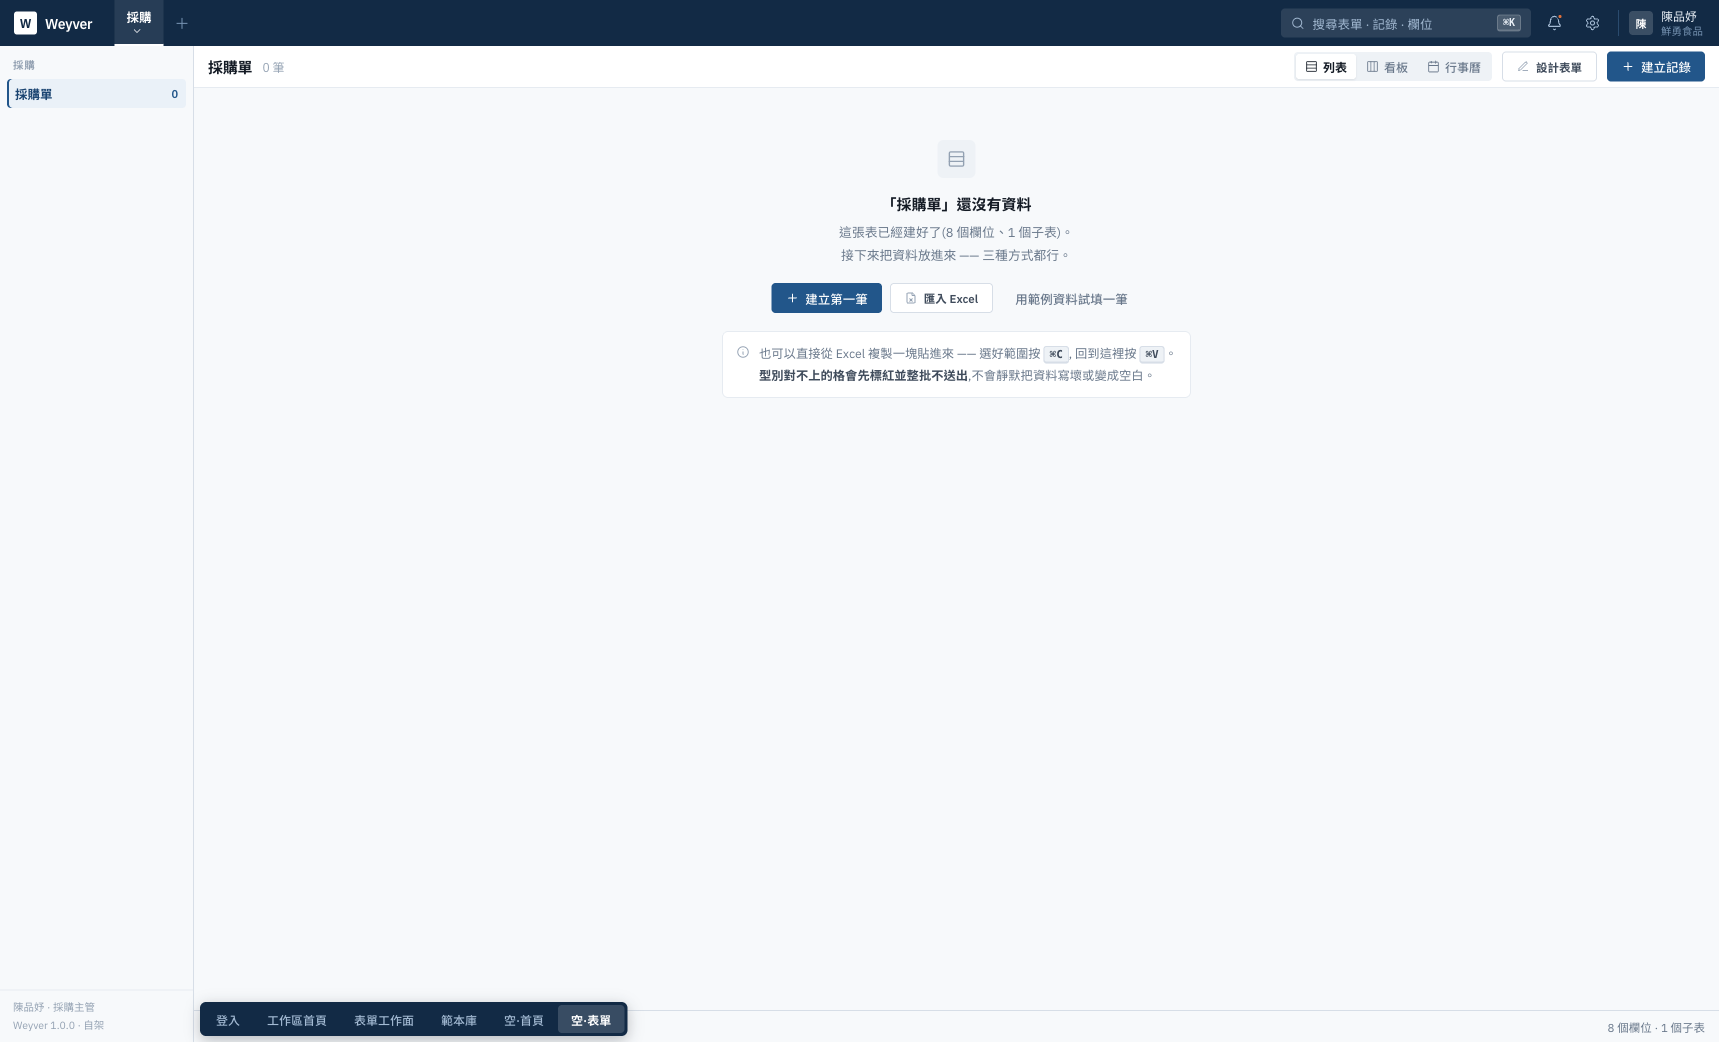
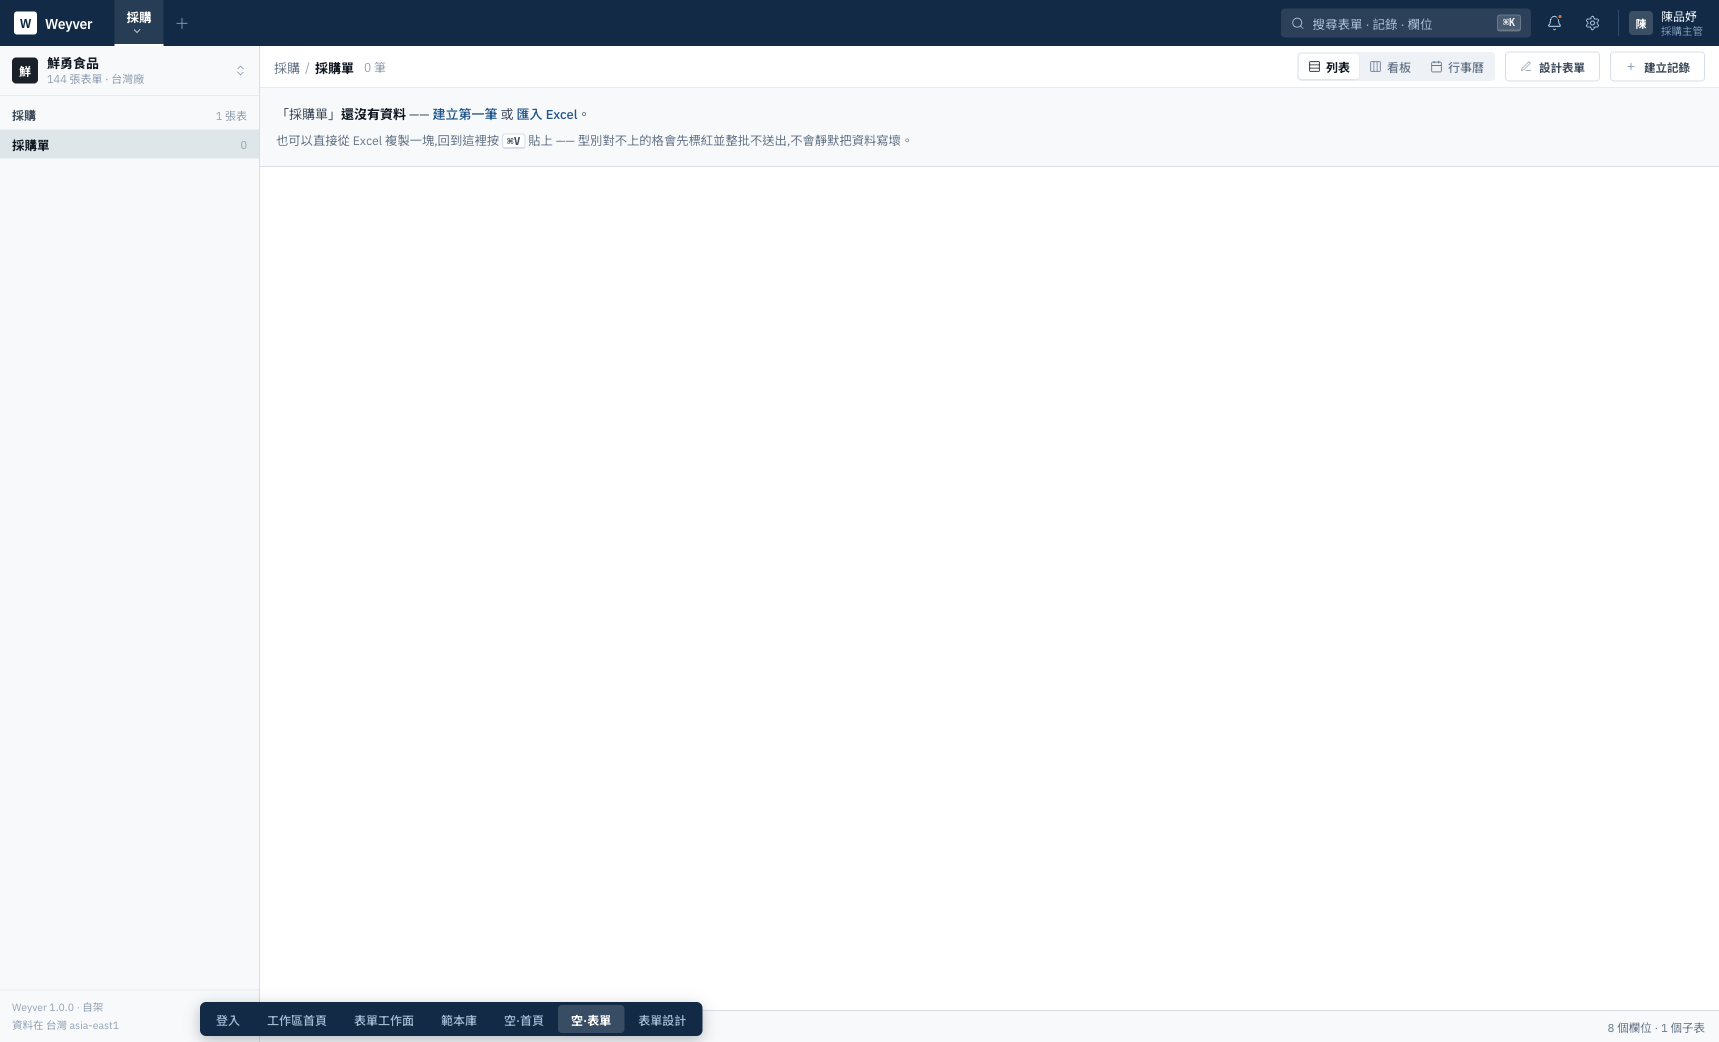
docs(design): 步驟 5|寬度上限 + 空狀態改整寬淺色帶(G11 + G9)
**G11** §2.3「表單／記錄檢視上限 1120px,文件正文上限 740px」,
理由是「Ragic 完全不設上限,370px 的表單漂在 900px 灰色裡看起來像壞掉」。
⚠ 但同一節也說「表格全出血」—— **上限只給頁面型內容,不給資料網格**。
→ .home .wrap 1180 → 1120;.blank .wrap 840 → 740(散文 + 清單,不是表單)。

**G9** §3.8 逐字:「Ragic 的作法最好:整寬淺色帶,內含接下來的兩個動作當行內連結…
沒有插圖,可操作。不要畫沒有 CTA 的裝飾性空狀態(Metabase 的問題)。」

🔴 我原本那版(置中卡片 + 圖示磚 + 三顆按鈕 + 提示框)踩了兩件:
① 圖示磚是**沒有出處的裝飾**
② 三顆按鈕把「接下來做什麼」攤成一個選單,
   而**空狀態的價值正在於替使用者決定下一步**

⌘V 貼上那條留著但降成帶內第二行 —— 它是向上點(OQ-GP-5「貼上前標紅」查無任何一家),
不是裝飾;而且使用者剛建完表,下一個動作十之八九就是把 Excel 那份搬進來。

✅ **撞名檢查當場擋下第五次**:.emptyband .sub 又撞到子表的 .sub{width:100%}。
**這次是工具在我看畫面之前抓到的**,不是事後發現版面壞掉 ——
_check-collisions.py 在這一步付清了它的成本。

diff --git a/docs/mockups/weyver-v2.html b/docs/mockups/weyver-v2.html
@@ -438,7 +438,11 @@ a:hover{text-decoration:underline;}
       4040px 是可掃描性問題不是 IA 問題,所以修的是密度與摺疊,不是拆掉目錄。
    ══════════════════════════════════════════════════════════════════ */
 .home{flex:1;overflow-y:auto;background:var(--paper);}
-.home .wrap{max-width:1180px;margin:0 auto;padding:18px 24px 48px;}
+/* 🔴 G11(docs/39 步驟 5)|`DESIGN-RULES.md` §2.3:
+   「表單／記錄檢視上限 **1120px**,文件正文上限 **740px**」,
+   理由是「Ragic 完全不設上限,370px 的表單漂在 900px 灰色裡看起來像壞掉」。
+   ⚠ 但同一節也說「**表格全出血**」—— 所以上限只給**頁面型**內容,不給資料網格。 */
+.home .wrap{max-width:1120px;margin:0 auto;padding:18px 24px 48px;}
 
 /* 一列標題 + 主要動作 —— 不做「大淺標題 → 留白」的兩層帶(C 版失敗處),
    也不放行銷標語:那是 sales deck 的東西,不是產品 chrome。 */
@@ -875,7 +879,8 @@ a:hover{text-decoration:underline;}
       唯一有依據的是「三條路 + 範本最前」,那是站①。
    ══════════════════════════════════════════════════════════════════ */
 .blank{flex:1;overflow-y:auto;background:var(--paper);}
-.blank .wrap{max-width:840px;margin:0 auto;padding:56px 24px 60px;}
+/* 首屏是**散文 + 三條路的清單**,不是表單 → 吃 740 那條(文件正文上限) */
+.blank .wrap{max-width:740px;margin:0 auto;padding:56px 24px 60px;}
 .blank h1{font-size:20px;font-weight:600;letter-spacing:-.3px;}
 .blank .lead{margin-top:8px;font-size:13.5px;line-height:1.8;color:var(--ink-3);}
 .blank .lead b{color:var(--ink-2);font-weight:600;}
@@ -922,30 +927,28 @@ a:hover{text-decoration:underline;}
   display:flex;align-items:center;justify-content:center;margin-top:1px;}
 .next li em{font-style:normal;color:var(--ink-3);}
 
-/* ── 畫面六:表單建好了,但一筆資料都沒有 ────────────────────
-   這是第二個空狀態,而且比第一個更常見(每建一張新表就出現一次)。
-   🔴 現況問題⑥「表格右側一大片無主空白欄」在這裡會最明顯 ——
-      沒有資料時,一排空格線看起來就像壞掉。 */
-.norows{flex:1;display:flex;align-items:flex-start;justify-content:center;
-  background:var(--paper-2);padding:52px 24px;}
-.norows .card{max-width:520px;text-align:center;}
-.norows .ic{width:38px;height:38px;border-radius:var(--r-box);background:var(--paper-3);
-  color:var(--ink-4);display:flex;align-items:center;justify-content:center;margin:0 auto 14px;}
-.norows .ic svg{width:19px;height:19px;}
-.norows h3{font-size:15px;font-weight:600;}
-.norows p{margin-top:7px;font-size:12.8px;line-height:1.8;color:var(--ink-3);}
-.norows .acts{margin-top:16px;display:flex;gap:8px;justify-content:center;flex-wrap:wrap;}
-/* 🔴 貼上的提示放在這裡,不是放在說明文件裡 —— 使用者剛建完表,
-   下一個動作十之八九是「把 Excel 裡那份搬進來」。
-   而 OQ-GP-5「貼上前標紅」是我方相對競品的向上點,值得在此明講。 */
-.norows .tip{margin-top:18px;border:1px solid var(--line-2);border-radius:var(--r-box);
-  background:var(--paper);padding:11px 13px;text-align:left;display:flex;gap:9px;}
-.norows .tip svg{width:14px;height:14px;color:var(--ink-4);flex-shrink:0;margin-top:2px;}
-.norows .tip div{font-size:12.3px;line-height:1.75;color:var(--ink-3);}
-.norows .tip b{color:var(--ink-2);font-weight:600;}
-.norows kbd{font-size:11px;font-weight:600;background:var(--paper-3);border:1px solid var(--line);
-  border-bottom-width:2px;border-radius:3px;padding:1px 5px;color:var(--ink-2);}
+/* ── 畫面六:表單建好了,但一筆資料都沒有 ──────────────────────
+   🔴 G9(docs/39 步驟 5)|**改成整寬淺色帶 + 行內連結**,不是置中卡片 + 三顆按鈕。
+   `DESIGN-RULES.md` §3.8 逐字:
+     「Ragic 的作法最好:**整寬淺色帶**,內含**接下來的兩個動作**當行內連結 ——
+       『還沒建立任何資料 — 建立一筆資料 或 前往表單頁』。**沒有插圖,可操作。**
+       **不要**畫沒有 CTA 的裝飾性空狀態(Metabase 的問題)。」
 
+   我原本那版(置中卡片 + 圖示磚 + 三顆按鈕 + 提示框)踩了兩件事:
+   ① 圖示磚是**沒有出處的裝飾** ② 三顆按鈕把「接下來做什麼」攤成一個選單,
+   而空狀態的價值正在於**替使用者決定下一步**。
+
+   ⚠ **⌘V 貼上那條留著,但降成帶內的第二行** —— 它是我方相對競品的向上點
+   (OQ-GP-5「貼上前標紅」查無任何一家),不是裝飾;
+   而且使用者剛建完表,下一個動作十之八九就是把 Excel 那份搬進來。 */
+.norows{flex:1;background:var(--paper);padding:0;}
+.emptyband{margin:0;padding:14px 16px;background:var(--paper-2);border-bottom:1px solid var(--line);
+  font-size:13px;line-height:1.9;color:var(--ink-2);}
+.emptyband b{font-weight:600;color:var(--ink);}
+.emptyband a{font-weight:500;}
+.emptyband .tip2{display:block;margin-top:2px;font-size:12.3px;color:var(--ink-3);}
+.emptyband kbd{font-size:11px;font-weight:600;background:var(--paper);border:1px solid var(--line);
+  border-bottom-width:2px;border-radius:3px;padding:0 4px;color:var(--ink-2);}
 
 /* ══════════════════════════════════════════════════════════════════
    畫面七|表單設計器
@@ -1999,24 +2002,14 @@ a:hover{text-decoration:underline;}
              現況問題⑥「表格右側一大片無主空白欄」在 0 筆時最明顯 ——
              一排畫滿格線的空列看起來就像壞掉,而不是「還沒填」。
              表頭也不畫:欄位設計可以從「設計表單」看,這裡不必重複一次。 -->
+        <!-- 整寬淺色帶 + 行內連結。沒有插圖,可操作。 -->
         <div class="norows">
-          <div class="card">
-            <div class="ic"><svg viewBox="0 0 24 24"><rect width="18" height="18" x="3" y="3" rx="2"/><path d="M3 9h18M3 15h18"/></svg></div>
-            <h3>「採購單」還沒有資料</h3>
-            <p>這張表已經建好了(8 個欄位、1 個子表)。<br>接下來把資料放進來 —— 三種方式都行。</p>
-            <div class="acts">
-              <button class="btn pri"><svg viewBox="0 0 24 24"><path d="M5 12h14M12 5v14"/></svg>建立第一筆</button>
-              <button class="btn sec"><svg viewBox="0 0 24 24"><path d="M15 2H6a2 2 0 0 0-2 2v16a2 2 0 0 0 2 2h12a2 2 0 0 0 2-2V7Z"/><path d="M14 2v5h5"/><path d="m9 13 6 6M15 13l-6 6"/></svg>匯入 Excel</button>
-              <button class="btn gho">用範例資料試填一筆</button>
-            </div>
-            <div class="tip">
-              <svg viewBox="0 0 24 24"><circle cx="12" cy="12" r="9"/><path d="M12 16v-4M12 8h.01"/></svg>
-              <div>
-                也可以直接從 Excel 複製一塊貼進來 —— 選好範圍按 <kbd>⌘C</kbd>,
-                回到這裡按 <kbd>⌘V</kbd>。<br>
-                <b>型別對不上的格會先標紅並整批不送出</b>,不會靜默把資料寫壞或變成空白。
-              </div>
-            </div>
+          <div class="emptyband">
+            「採購單」<b>還沒有資料</b> —— <a href="#">建立第一筆</a> 或 <a href="#">匯入 Excel</a>。
+            <span class="tip2">
+              也可以直接從 Excel 複製一塊,回到這裡按 <kbd>⌘V</kbd> 貼上 ——
+              型別對不上的格會先標紅並整批不送出,不會靜默把資料寫壞。
+            </span>
           </div>
         </div>
 

diff --git a/docs/39-視覺落差與對齊計畫.md b/docs/39-視覺落差與對齊計畫.md
@@ -83,9 +83,9 @@
 | ~~**G6**~~ | ~~側欄寬~~ | ~~206px~~ | ✅ **已完成 2026-08-08** —— 260px | 5 | 低 |
 | ~~**G7**~~ | ~~列高~~ | ~~31px~~ | ✅ **已完成 2026-08-08** —— 36px / 內距 10px | 3 | 低 |
 | **G8** | 字體 | IBM Plex | Inter + Noto Sans TC(規則)/ Archivo(決策方登入頁)**三方不一致,待統一** | 全部 | 中 |
-| **G9** | 空狀態 | 已做(三條路) | 對齊「整寬淺色帶 + 兩個行內動作」的形態 | 2 | 低 |
+| ~~**G9**~~ | ~~空狀態~~ | ~~置中卡片 + 三顆按鈕~~ | ✅ **已完成 2026-08-08** —— 整寬淺色帶 + 行內連結 | 2 | 低 |
 | **G10** | 智慧按鈕 | 無 | 關聯記錄計數當數字磚(`3 出貨單`) | 1 | 中 |
-| **G11** | 內容寬度上限 | 記錄面板固定寬 | 表單 / 記錄 ≤1120px,文件正文 ≤740px | 2 | 低 |
+| ~~**G11**~~ | ~~內容寬度上限~~ | ~~首頁 1180 / 首屏 840~~ | ✅ **已完成 2026-08-08** —— 1120 / 740 | 2 | 低 |
 
 ---
 
@@ -157,7 +157,7 @@
 | ~~**2**~~ | ✅ **G4 + G7(2026-08-08 完成)** | 見 §4.2 |
 | ~~**3**~~ | ✅ **G2 + G3(2026-08-08 完成)** | 見 §4.3 |
 | ~~**4**~~ | ✅ **G6 + G5(2026-08-08 完成)** | 見 §4.4 |
-| **5** | **G11 內容寬度上限** + **G9 空狀態形態** | 收尾的版面約束 |
+| ~~**5**~~ | ✅ **G11 + G9(2026-08-08 完成)** | 見 §4.5 |
 | **6** | **G8 字體統一** | 🔴 **最後做,而且要先裁定** —— 三方不一致(IBM Plex / Inter / Archivo),換字體會動到每個畫面的行高與對齊,在其他事都定案前換等於重做兩次 |
 | — | **G10 智慧按鈕** | 需要關聯計數 API,**排在 mockup 之後**,不在這一輪 |
 
@@ -232,6 +232,27 @@
 `單一寬度:false` —— 但那兩個 0 是**隱藏畫面**的 `.ctx`(父層 `hidden`)。
 改用「`.ctx{width:` 規則數 = 1」確認才是對的判準。
 又一次「代理指標的輸出不是答案」—— 差點把偽陰性報成缺陷。
+
+### 4.5 步驟 5 落地紀錄(2026-08-08)
+
+**G11 寬度上限。** §2.3:「表單／記錄檢視上限 **1120px**,文件正文上限 **740px**」,
+理由是「Ragic 完全不設上限,370px 的表單漂在 900px 灰色裡看起來像壞掉」。
+⚠ **但同一節也說「表格全出血」** —— 所以上限只給**頁面型**內容,不給資料網格。
+→ `.home .wrap` 1180 → **1120**;`.blank .wrap` 840 → **740**(它是散文 + 三條路清單,不是表單)。
+
+**G9 空狀態改「整寬淺色帶 + 行內連結」。** §3.8 逐字:
+「Ragic 的作法最好:**整寬淺色帶**,內含**接下來的兩個動作**當行內連結…**沒有插圖,可操作**。
+**不要**畫沒有 CTA 的裝飾性空狀態(Metabase 的問題)。」
+
+🔴 我原本那版(置中卡片 + 圖示磚 + 三顆按鈕 + 提示框)踩了兩件事:
+① **圖示磚是沒有出處的裝飾** ② **三顆按鈕把「接下來做什麼」攤成一個選單**,
+而空狀態的價值正在於**替使用者決定下一步**。
+→ ⌘V 貼上那條**留著但降成帶內第二行** —— 它是向上點(OQ-GP-5「貼上前標紅」查無任何一家),
+   不是裝飾;而且使用者剛建完表,下一個動作十之八九就是把 Excel 那份搬進來。
+
+✅ **撞名檢查當場擋下第五次** —— `.emptyband .sub` 又撞到子表的 `.sub{width:100%}`。
+**這次是工具在我看畫面之前就抓到的**,不是事後才發現版面壞掉。
+`_check-collisions.py` 在這一步付清了它的成本。
 
 **每一步的驗收**|Playwright 實走 + 截圖存 `docs/research/ui-extract-2026-08-06/`,
 並跑 `docs/mockups/_check-collisions.py`。
